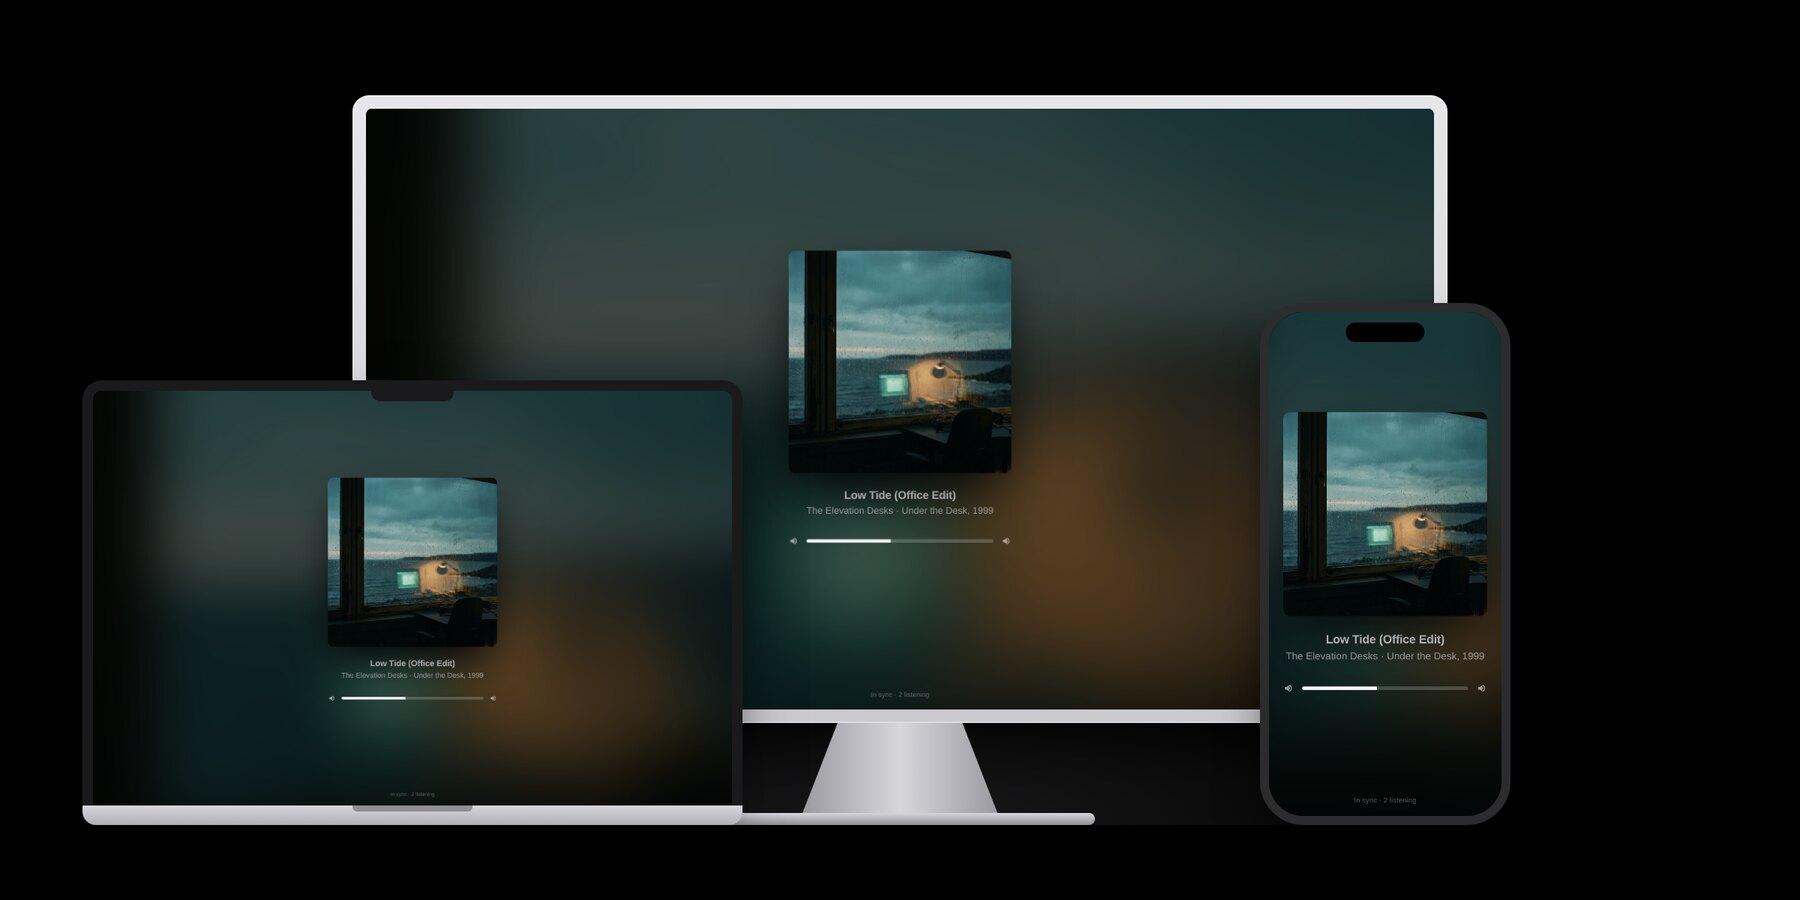
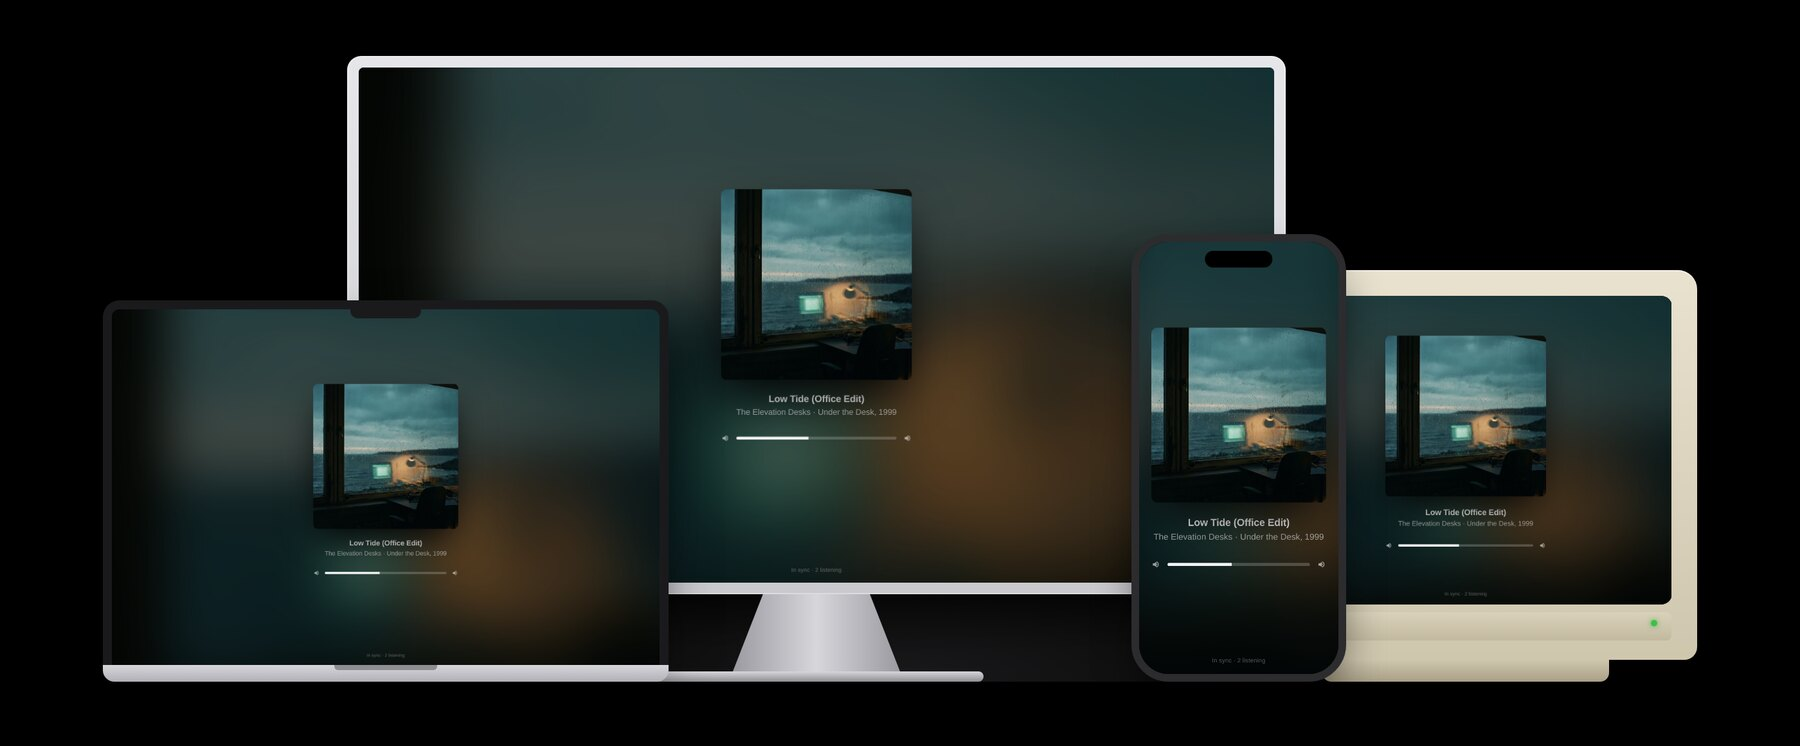
Family shot: a CRT joins, and the group is centred
A beige 4:3 CRT with its own capture of the listener page stands at
the right, on the same floor line as the display, the laptop and the
phone; the phone now sits in front of it. The group is centred on the
canvas as a whole rather than on the display. Used in the README and
in the landing page's Listeners tile.

Claude-Session: https://claude.ai/code/session_01NiVUN2xRcw2KYpxBRwL6Mm

Changed region(s): [[0.0311, 0.0617, 0.9644, 0.9249], [0.1556, 0.4933, 0.28, 0.8016]]

diff --git a/docs/index.html b/docs/index.html
@@ -230,7 +230,7 @@
   .tile.photo .over { position: relative; padding: 160px 36px 40px; background: linear-gradient(to top, rgba(0,0,0,.82) 0%, rgba(0,0,0,.55) 45%, rgba(0,0,0,0) 100%); color: #fff; }
   .tile.photo .over .eyebrow { color: rgba(255,255,255,.7); }
   .tile.family { padding: 0; overflow: hidden; background: #000; color: #f5f5f7; min-height: 0; }
-  .tile.family img { width: 100%; display: block; aspect-ratio: 2; object-fit: cover; }
+  .tile.family img { width: 100%; display: block; aspect-ratio: 1800 / 745; object-fit: cover; }
   .tile.family .cap { padding: 32px 36px 40px; }
   .tile.family .cap .eyebrow { color: var(--grey); }
   .tile.family .cap p:not(.eyebrow) { color: var(--grey); }
@@ -476,8 +476,8 @@
       <div class="tile rv"><p class="eyebrow">AirPlay</p><h3>From any iPhone, iPad or Mac.</h3><p>Music, Spotify, Tidal, YouTube, podcasts. Anything with an AirPlay button. Title, artist, album and the artwork come along for the ride.</p></div>
       <div class="tile rv" style="--d:.1s"><p class="eyebrow">Spotify Connect</p><h3>From any phone with Spotify.</h3><p>BoomerBlaster appears in Spotify's device list like a speaker would. Android welcome. Premium required, because Spotify says so.<sup>5</sup></p></div>
       <div class="tile family span2 rv" style="--d:.16s">
-        <img src="img/listener.jpg" width="1800" height="900" alt="The listener page on a desktop display, a laptop and a phone, lined up on black, all playing Low Tide (Office Edit)." loading="lazy">
-        <div class="cap"><p class="eyebrow">Listeners</p><h3>A web page. Nothing to install.</h3><p>The most compatible app we have ever shipped. Works on the display at the desk, the laptop IT gave you and the phone IT doesn't know about.</p></div>
+        <img src="img/listener.jpg" width="1800" height="900" alt="The listener page on a desktop display, a laptop, a phone and a beige CRT monitor, lined up on black, all playing Low Tide (Office Edit)." loading="lazy">
+        <div class="cap"><p class="eyebrow">Listeners</p><h3>A web page. Nothing to install.</h3><p>The most compatible app we have ever shipped. Works on the display at the desk, the laptop IT gave you, the phone IT doesn't know about, and the CRT nobody has dared to unplug.</p></div>
       </div>
     </div>
   </div>

diff --git a/README.md b/README.md
@@ -99,7 +99,7 @@ same dependencies and copies the command into `~/.local/bin`.
 
 ## Let colleagues in
 
-![The listener page on a desktop display, a laptop and a phone, lined up on black: on each, the cover art large with its colours blurred into the background, "Low Tide (Office Edit)" by The Elevation Desks beneath, one volume slider between two speaker glyphs, and a line reading "In sync · 2 listening"](docs/img/listener.jpg)
+![The listener page on a desktop display, a laptop, a phone and a beige CRT monitor, lined up on black: on each, the cover art large with its colours blurred into the background, "Low Tide (Office Edit)" by The Elevation Desks beneath, one volume slider between two speaker glyphs, and a line reading "In sync · 2 listening"](docs/img/listener.jpg)
 
 Colleagues open the address in any browser, tap the artwork and put on their
 headphones. The page shows the cover art large, the track and artist
